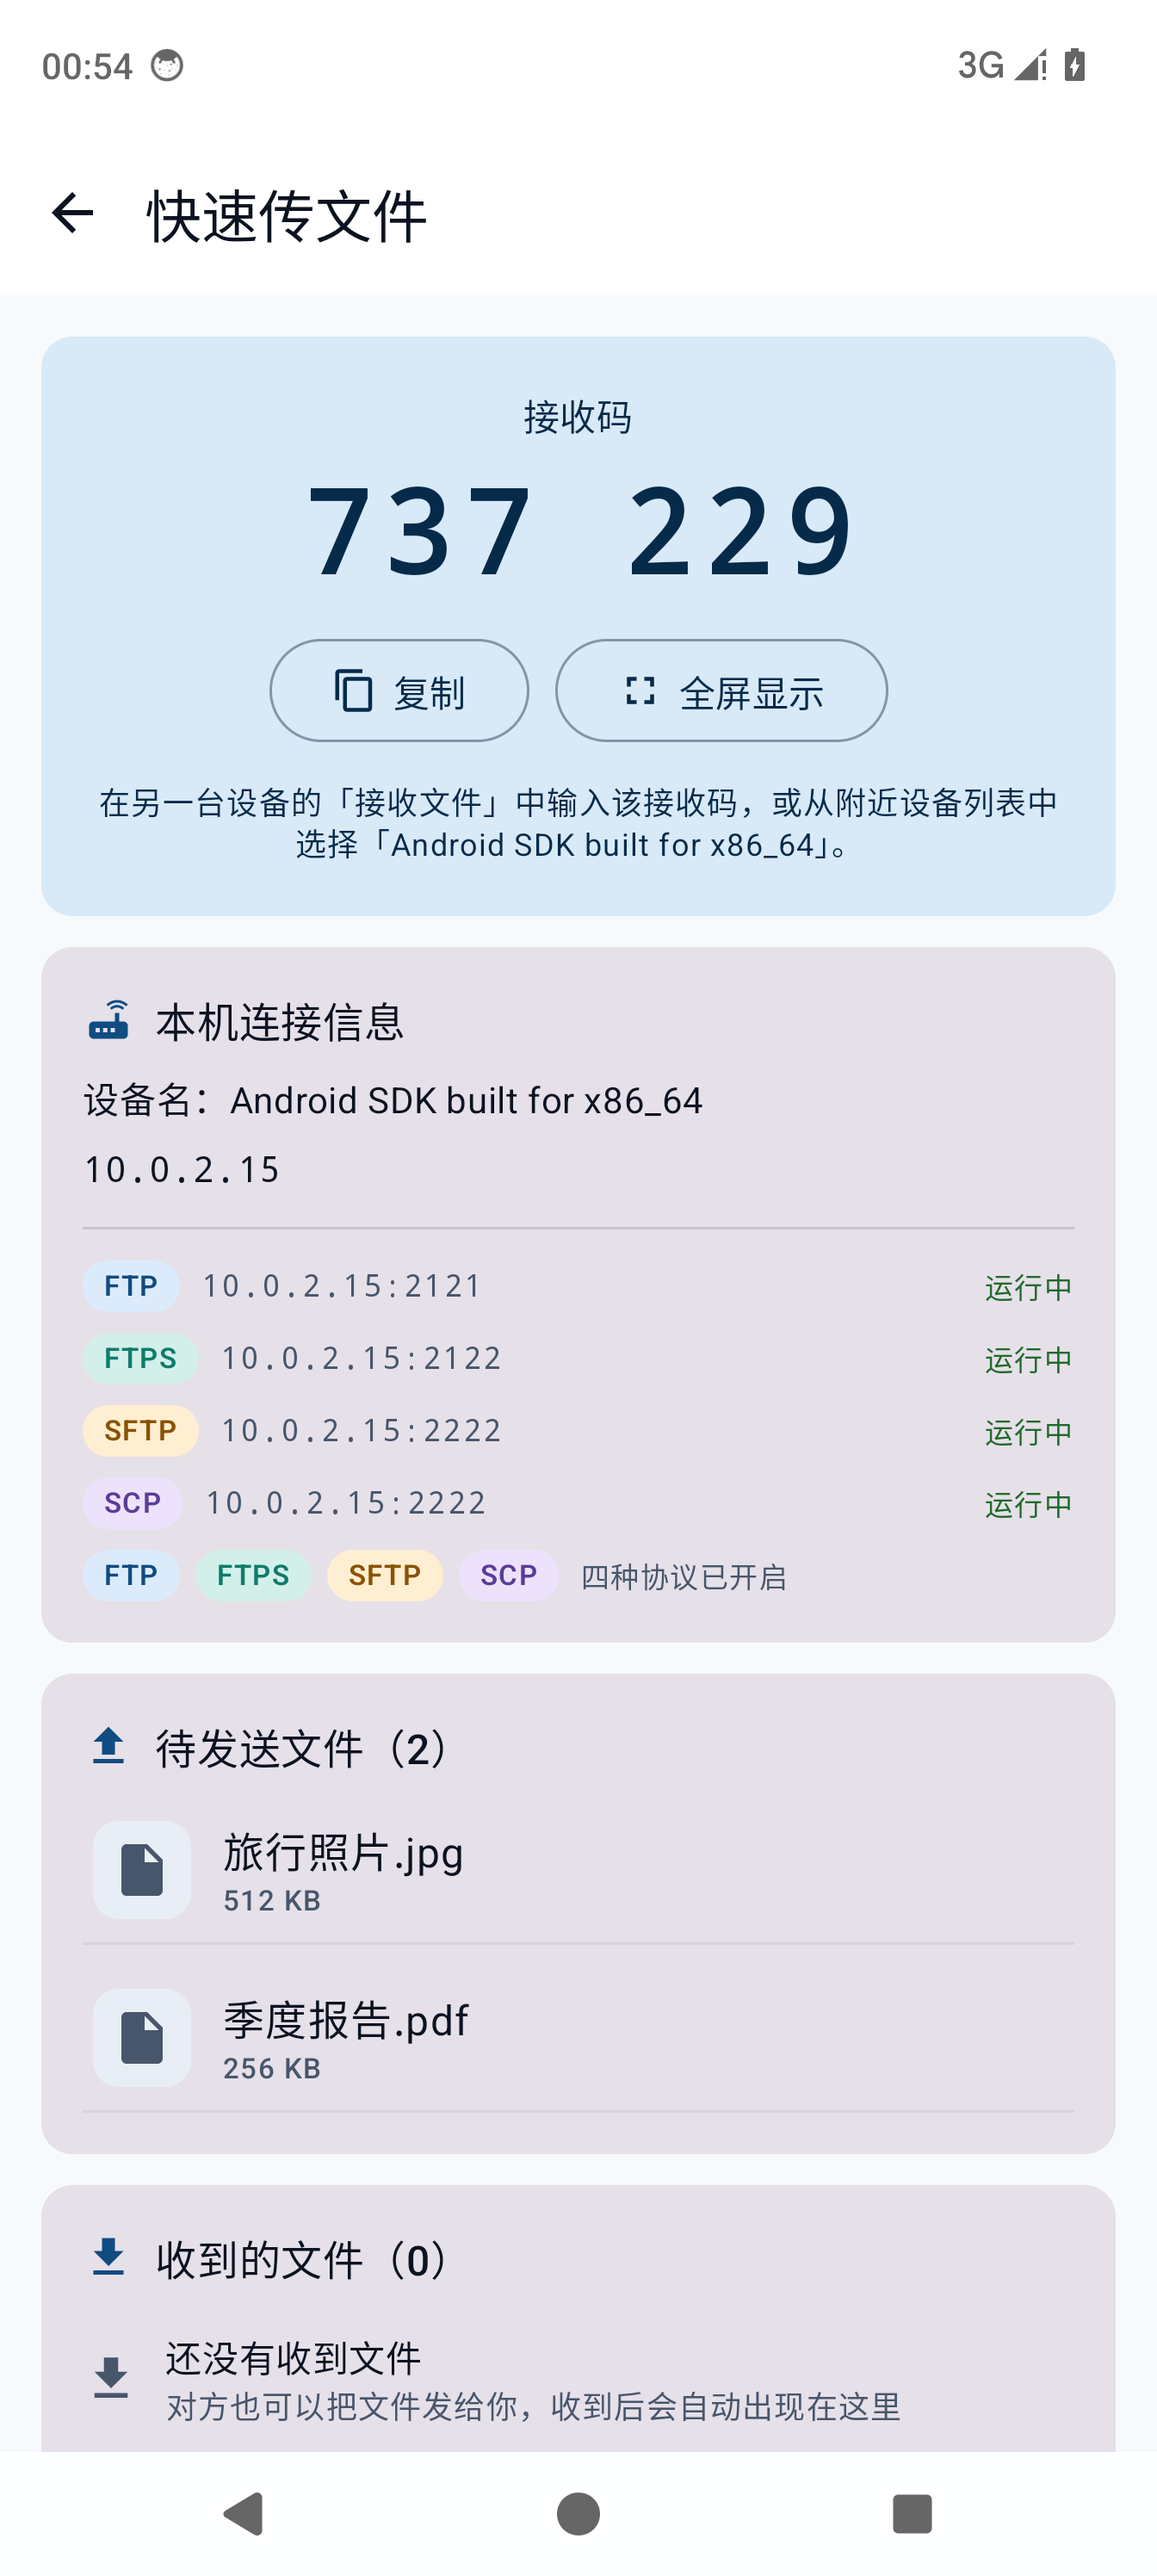
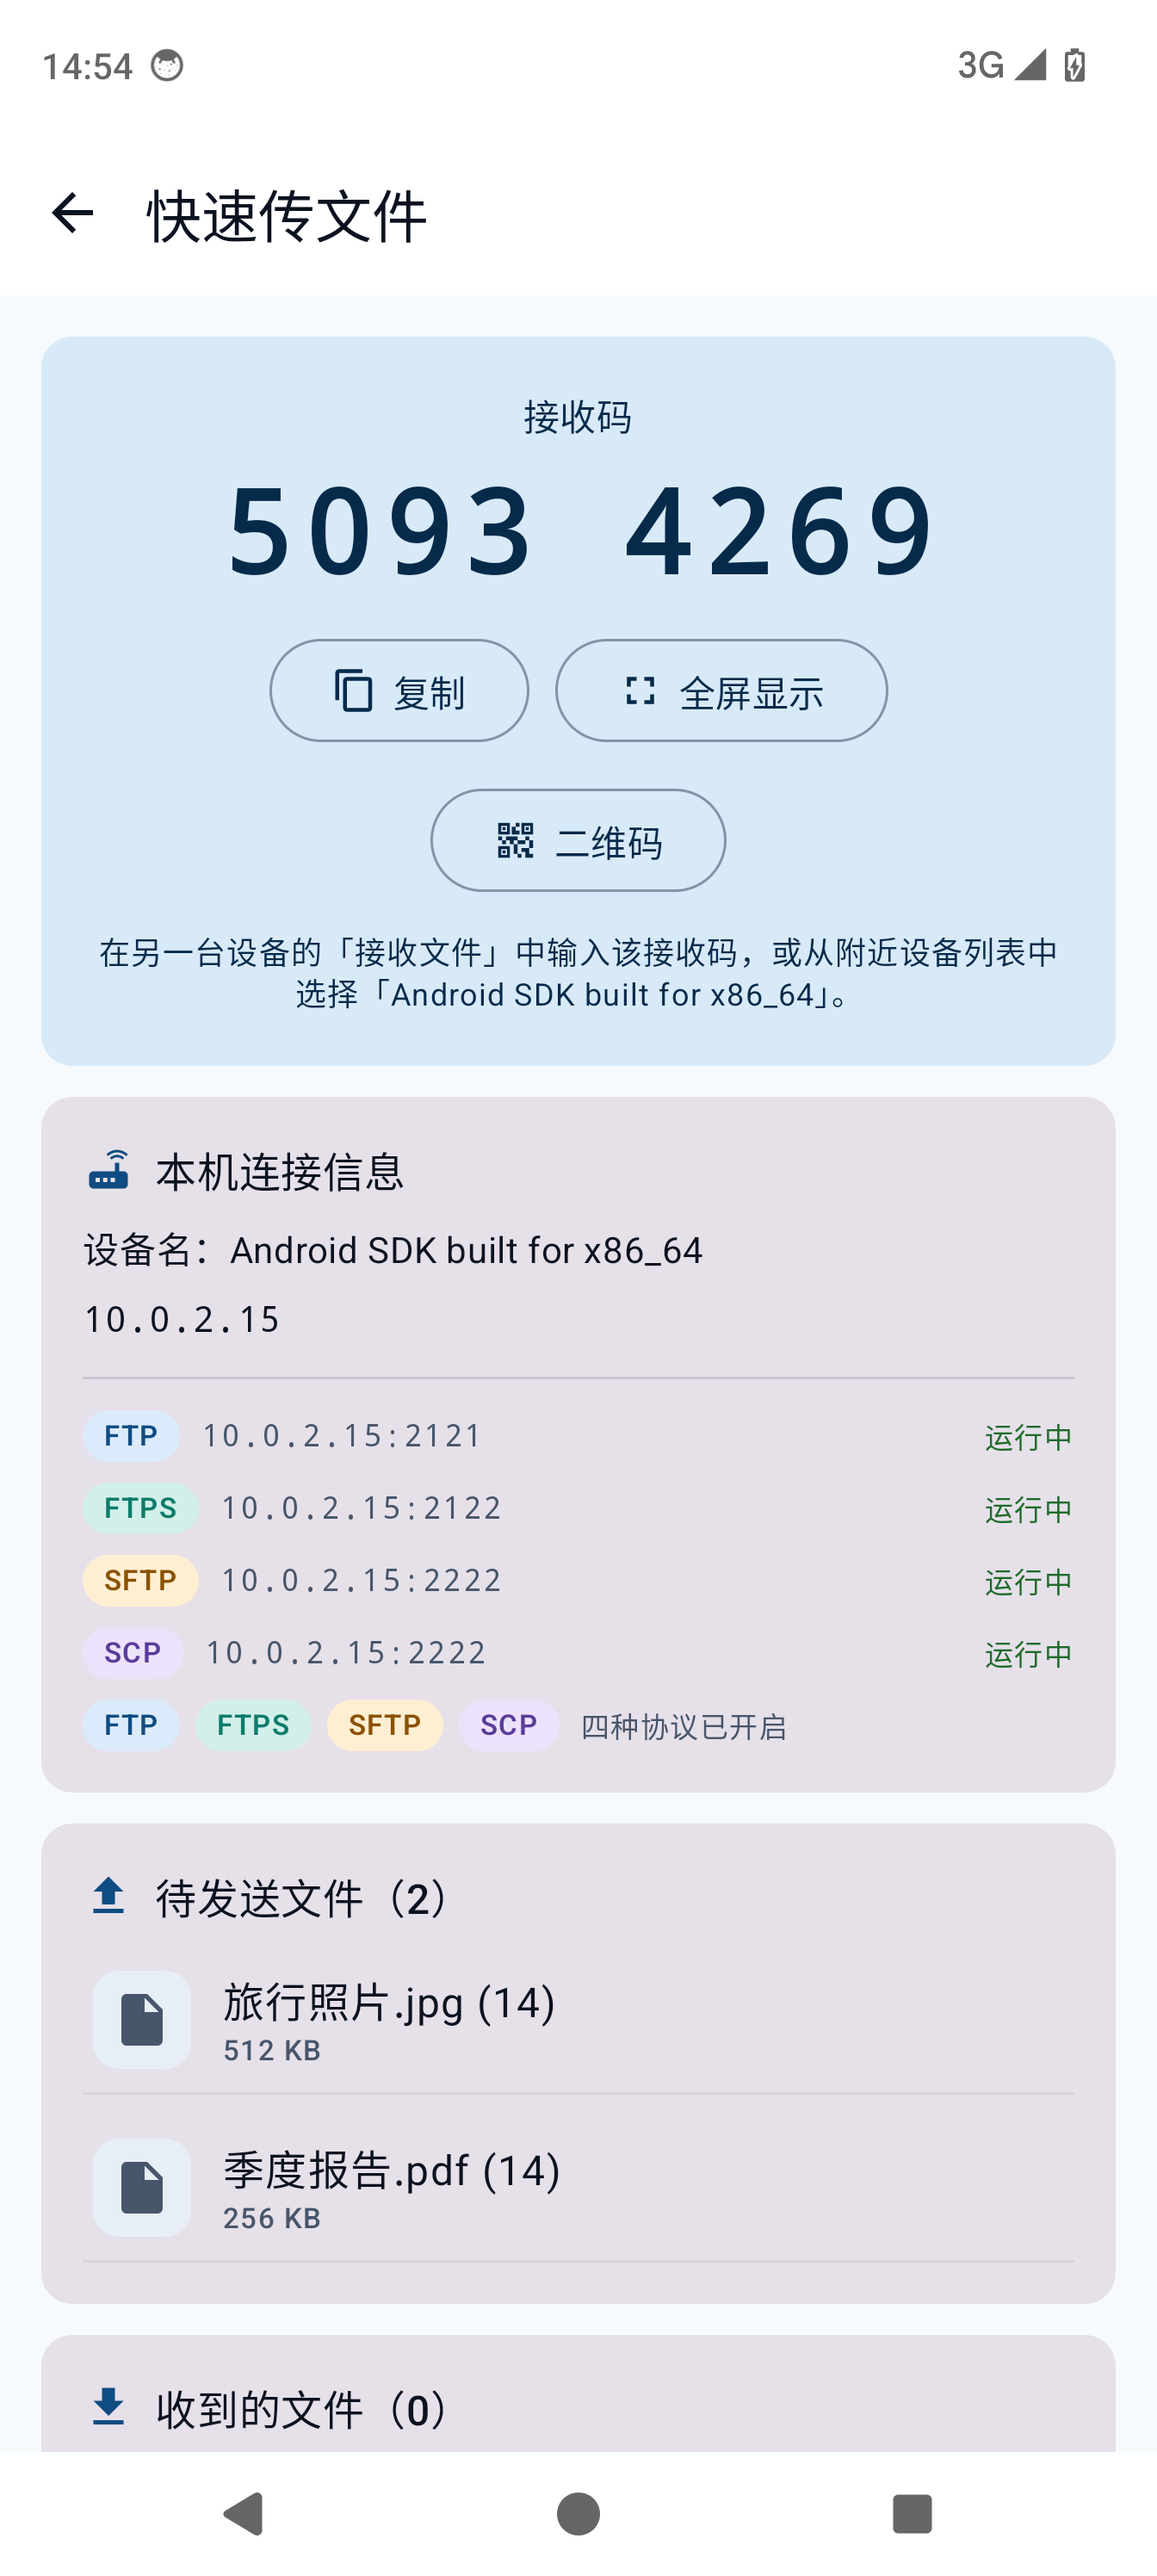
docs(site): 站点截图更新为 v2.3.0 当前界面
用 Pixel_8_Pro (API 34, 1344x2992) 重拍全部 15 张配图：

- ScreenshotTourTest      -> 01/02/03/04
- ServerScreenshotTest    -> 06/07
- QuickScreenshotTest     -> 08/09/11（11 取会话建立后的 11b，
                             可展示 8 位接收码「5093 4269」的 4+4 分组）
- QuickProgressTest       -> 13
- 新增 SiteScreenshotTest -> 05/12/15/16（此前无测试覆盖，只能手工截）

此前 10 张为 2026-11-13~15 的旧界面，5 张还是 1440x3040（Pixel_4_XL）；
现全部统一为 1344x2992，并反映 8 位接收码、顶部图标等当前 UI。

新增 SiteScreenshotTest 让 05/12/15/16 可重复生成，避免下次再手工截。

diff --git a/app/src/androidTest/java/com/manst/lantransfer/e2e/SiteScreenshotTest.kt b/app/src/androidTest/java/com/manst/lantransfer/e2e/SiteScreenshotTest.kt
@@ -1,0 +1,106 @@
+package com.manst.lantransfer.e2e
+
+import android.graphics.Bitmap
+import androidx.compose.ui.test.junit4.createEmptyComposeRule
+import androidx.compose.ui.test.onAllNodesWithText
+import androidx.compose.ui.test.onFirst
+import androidx.compose.ui.test.onNodeWithContentDescription
+import androidx.compose.ui.test.performClick
+import androidx.test.core.app.ActivityScenario
+import androidx.test.ext.junit.runners.AndroidJUnit4
+import androidx.test.platform.app.InstrumentationRegistry
+import com.manst.lantransfer.MainActivity
+import com.manst.lantransfer.core.AppPreferences
+import org.junit.Before
+import org.junit.Rule
+import org.junit.Test
+import org.junit.runner.RunWith
+import java.io.File
+import java.io.FileOutputStream
+
+/**
+ * 站点配图：网络工具（15）与一键组网（16）。
+ *
+ * 截图输出：/sdcard/Android/data/com.manst.lantransfer.debug/files/screenshots/
+ * 与 ScreenshotTourTest / QuickScreenshotTest / ServerScreenshotTest 共用同一目录与命名规则。
+ */
+@RunWith(AndroidJUnit4::class)
+class SiteScreenshotTest {
+
+    @get:Rule
+    val composeRule = createEmptyComposeRule()
+
+    private val context = InstrumentationRegistry.getInstrumentation().targetContext
+    private val shotsDir = File(context.getExternalFilesDir(null), "screenshots")
+
+    @Before
+    fun prepare() {
+        shotsDir.mkdirs()
+        context.deleteFile("servers.json")
+        AppPreferences(context).trustedLanNoticeShown = true
+    }
+
+    private fun capture(name: String) {
+        Thread.sleep(800)
+        val bitmap: Bitmap = InstrumentationRegistry.getInstrumentation().uiAutomation.takeScreenshot()
+        FileOutputStream(File(shotsDir, name + ".png")).use { output ->
+            bitmap.compress(Bitmap.CompressFormat.PNG, 100, output)
+        }
+        bitmap.recycle()
+    }
+
+    private fun waitForText(text: String, timeoutMillis: Long = 20_000) {
+        composeRule.waitUntil(timeoutMillis = timeoutMillis) {
+            composeRule.onAllNodesWithText(text).fetchSemanticsNodes().isNotEmpty()
+        }
+    }
+
+    @Test
+    fun captureNetworkTools() {
+        ActivityScenario.launch(MainActivity::class.java).use {
+            waitForText("LanLink")
+            composeRule.onNodeWithContentDescription("网络工具").performClick()
+            waitForText("当前网络")
+            // 等本机网络信息填充完成，避免截到「读取中」
+            Thread.sleep(2000)
+            capture("15_network_tools")
+        }
+    }
+
+    /** 服务器编辑页（README 引用；站点未使用，但保持截图集一致）。 */
+    @Test
+    fun captureServerEditor() {
+        ActivityScenario.launch(MainActivity::class.java).use {
+            waitForText("LanLink")
+            composeRule.onAllNodesWithText("添加服务器").onFirst().performClick()
+            waitForText("新增服务器")
+            Thread.sleep(900)
+            capture("05_server_editor")
+        }
+    }
+
+    /** 首次启动的可信局域网提示（README 引用）。 */
+    @Test
+    fun captureTrustedLanNotice() {
+        AppPreferences(context).trustedLanNoticeShown = false
+        ActivityScenario.launch(MainActivity::class.java).use {
+            waitForText("请在你信任的局域网下使用")
+            Thread.sleep(900)
+            capture("12_trusted_lan_notice")
+        }
+        AppPreferences(context).trustedLanNoticeShown = true
+    }
+
+    @Test
+    fun captureNetworkSetup() {
+        ActivityScenario.launch(MainActivity::class.java).use {
+            waitForText("LanLink")
+            composeRule.onNodeWithContentDescription("网络工具").performClick()
+            waitForText("一键组网（热点）")
+            composeRule.onAllNodesWithText("一键组网").onFirst().performClick()
+            waitForText("我是发送方（A 开热点）")
+            Thread.sleep(1500)
+            capture("16_network_setup")
+        }
+    }
+}
